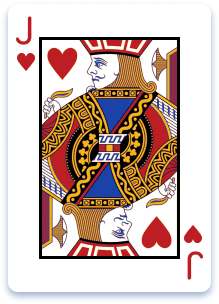
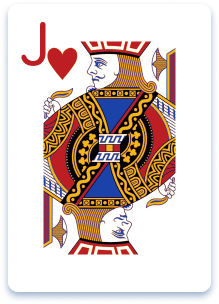
Use the new artwork for the court cards
The supplied J, Q and K carry the same large corner rank and suit as the
new number cards while keeping their painted figures, so the deck now
reads the same way throughout: the corner index survives in the fanned
hand, where only the left edge of a card shows, and the picture still
tells a court card apart at a glance.

Changed region(s): [[0.0548, 0.0592, 0.9315, 0.9178]]

diff --git a/scripts/build-card-faces.py b/scripts/build-card-faces.py
@@ -1,8 +1,8 @@
 """
 Builds the card faces from the new artwork in "Component 5".
 
-The folder holds A and 2 to 10. J, Q and K keep their painted illustrations and
-this script leaves them alone.
+The folder holds A and 2 to 10. J, Q and K arrive as finished artwork that
+already carries its corner index, so this script leaves them alone.
 
 One thing is added to the supplied art: a small suit glyph under the corner
 rank. The fanned hand on a phone shows only the left edge of a card, and the
